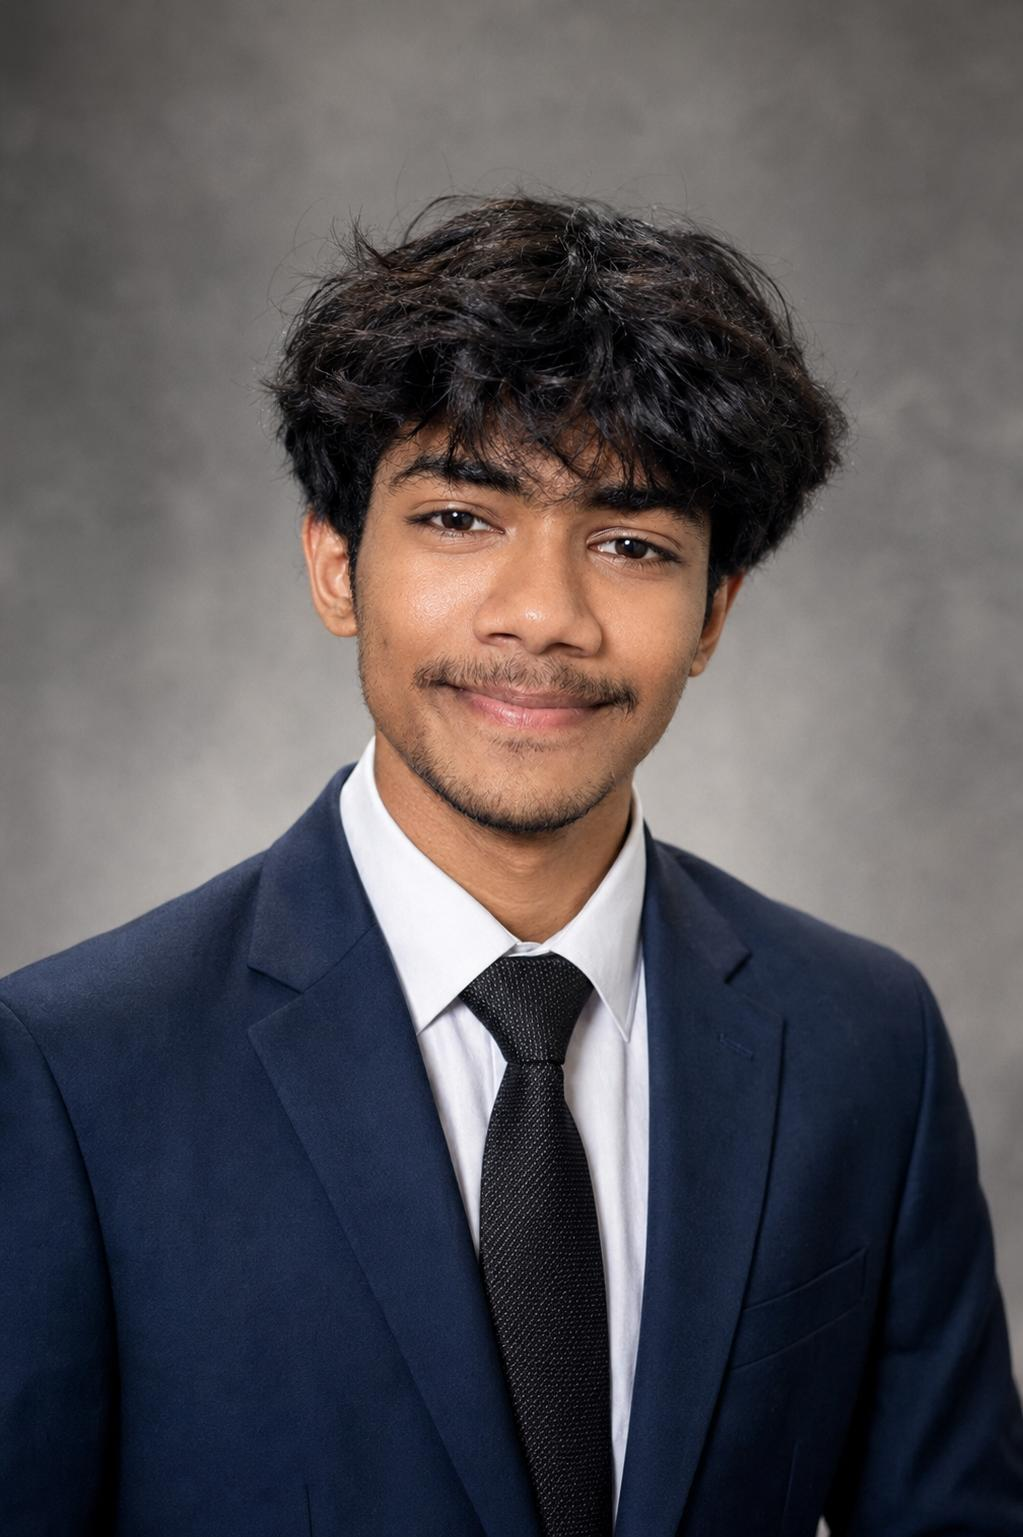
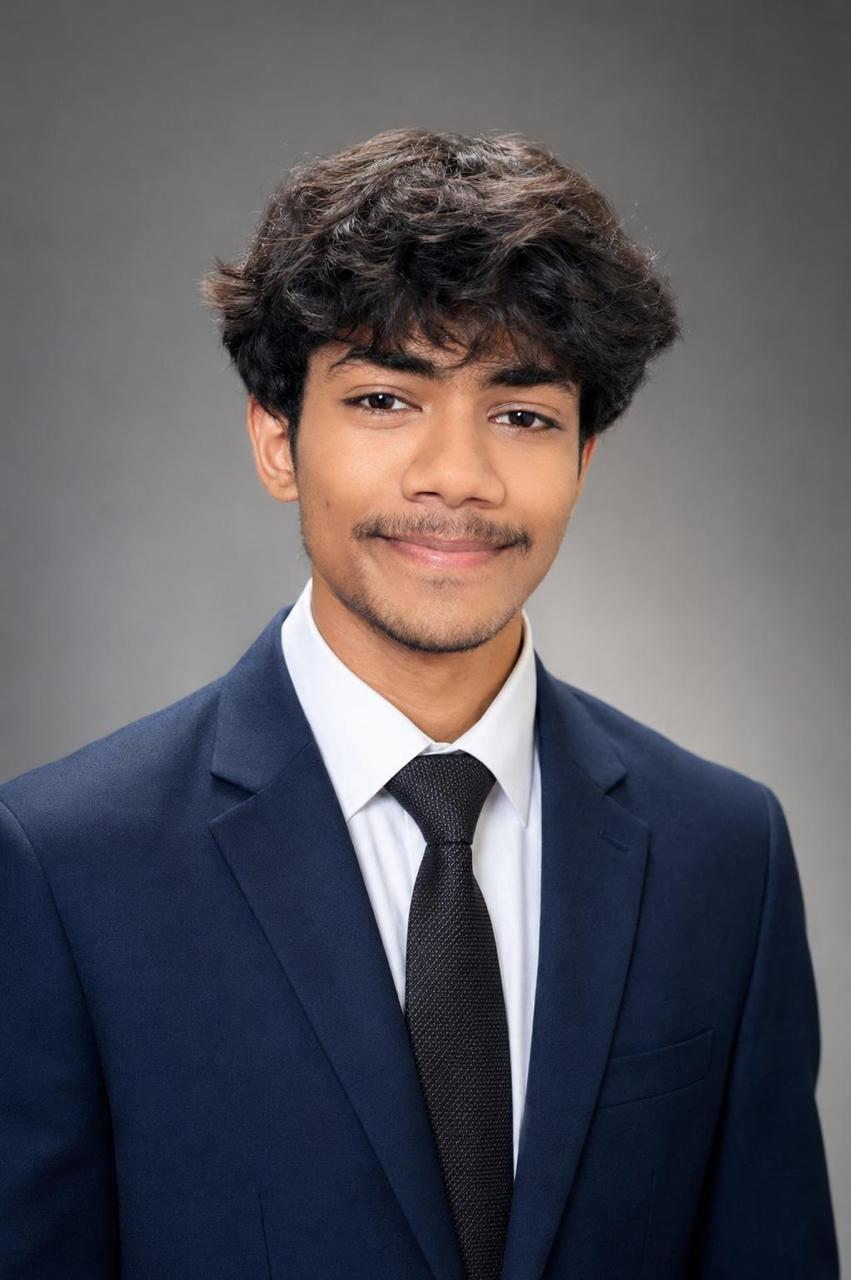
Update executive leadership profiles

diff --git a/app/about/page.tsx b/app/about/page.tsx
@@ -148,13 +148,13 @@ const ecosystem = [
 
 const leadership = [
   {
-    id: "kunal-gururaj-khetri",
-    name: "Kunal Gururaj Khetri",
+    id: "kunal-khetri",
+    name: "Kunal Khetri",
     role: "CEO",
     title: "Chief Executive Officer (CEO)",
     fullTitle: "Chief Executive Officer & Director",
     company: "Upstairs Techno Private Limited",
-    image: "/CEO.jpeg",
+    image: "/Kunal Khetri CEO.jpeg",
     bio: "Spearheads executive direction, corporate strategy, enterprise partnerships, and engineering innovation across global digital platforms at Upstairs Techno Private Limited.",
     profiles: [
       {
@@ -183,6 +183,28 @@ const leadership = [
         icon: ExternalLink,
       },
     ],
+  },
+  {
+    id: "shreyash-chilweri",
+    name: "Shreyash Chilweri",
+    role: "CTO",
+    title: "Chief Technology Officer (CTO)",
+    fullTitle: "Chief Technology Officer",
+    company: "Upstairs Techno Private Limited",
+    image: "/CTO.jpeg",
+    bio: "Leads technology strategy, engineering standards, and the development of scalable digital solutions at Upstairs Techno Private Limited.",
+    profiles: [],
+  },
+  {
+    id: "darshan-kshetri",
+    name: "Darshan Kshetri",
+    role: "COO",
+    title: "Chief Operating Officer (COO)",
+    fullTitle: "Chief Operating Officer",
+    company: "Upstairs Techno Private Limited",
+    image: "/COO.jpeg",
+    bio: "Oversees day-to-day operations, business processes, and coordinated execution across Upstairs Techno Private Limited.",
+    profiles: [],
   },
 ];
 
@@ -452,7 +474,7 @@ export default function AboutPage() {
                 </h3>
               </div>
 
-              <div className="grid gap-8 max-w-2xl mx-auto">
+              <div className="grid gap-8 max-w-6xl mx-auto md:grid-cols-2 xl:grid-cols-3">
                 {leadership.map((leader) => (
                   <article
                     key={leader.name}
